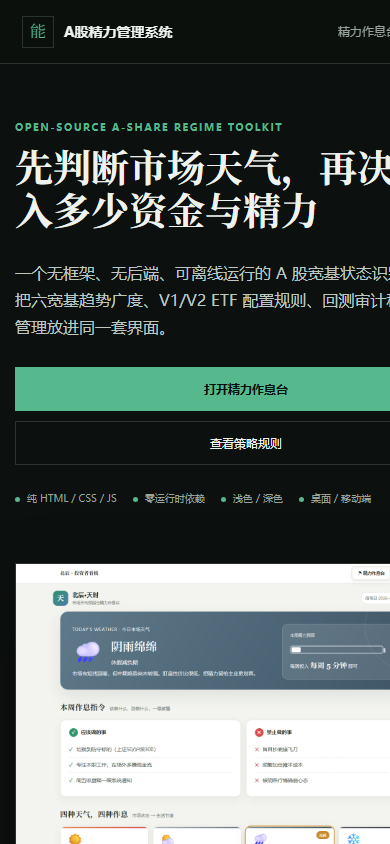
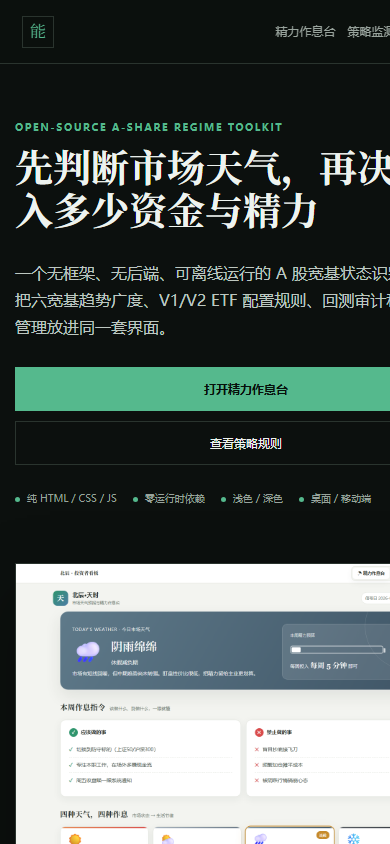
Fix project screenshots and documentation links

Changed region(s): [[0.7077, 0.0308, 1.0, 0.0616], [0.1538, 0.0308, 0.4615, 0.0616]]

diff --git a/index.html b/index.html
@@ -125,7 +125,7 @@
 
         <div class="strategy-version-grid">
           <article class="strategy-version v1"><div class="version-head"><span>V1 基础优化</span><b>简单、稳定、容易人工执行</b></div><p class="version-one-line">像“按天气准备固定衣柜”：不同状态对应预先规定的仓位和标的池。</p><div class="version-points"><p><i>1</i><span><b>状态识别</b>沿用三周期市场广度。</span></p><p><i>2</i><span><b>仓位</b>采用连续函数或20%/35%/50%/65%/80%档位，危机时0%。</span></p><p><i>3</i><span><b>选标</b>震荡固定300+500，防守固定50+300，进攻只在成长池选12周动量Top 2。</span></p><p><i>4</i><span><b>调仓</b>标的变化或仓位偏差达到5%才动。</span></p></div><div class="version-result"><span>它解决什么</span><b>少判断、少折腾，用规则控制总仓位</b></div></article>
-          <article class="strategy-version v2"><div class="version-head"><span>V2 进阶增强</span><b>更自适应、更进攻、更重视趋势质量</b></div><p class="version-one-line">像“全队公开选拔”：不预设价值或成长，谁的趋势最强就让谁上场。</p><div class="version-points"><p><i>1</i><span><b>状态识别</b>沿用相同广度底座，方便和V1公平比较。</span></p><p><i>2</i><span><b>仓位</b>进攻75%—100%、震荡40%—60%、防守与危机0%。</span></p><p><i>3</i><span><b>选标</b>六ETF统一计算快慢复合动量，选Top 2；震荡态先过滤掉未站上MA12者。</span></p><p><i>4</i><span><b>风控</b>Top 3迟滞减少乱换，单标的跌破MA4后该仓位降到原来的60%。</span></p></div><div class="version-result"><span>它解决什么</span><b>减少风格偏见，争取在主升浪集中到真正领涨方向</b></div></article>
+          <article class="strategy-version v2"><div class="version-head"><span>V2 进阶增强</span><b>更自适应、更进攻、更重视趋势质量</b></div><p class="version-one-line">像“全队公开选拔”：不预设价值或成长，谁的趋势最强就让谁上场。</p><div class="version-points"><p><i>1</i><span><b>状态识别</b>沿用相同广度底座，方便和V1公平比较。</span></p><p><i>2</i><span><b>仓位</b>进攻75%—100%、震荡40%—60%、防守与危机0%。</span></p><p><i>3</i><span><b>选标</b>6只ETF统一计算快慢复合动量，选Top 2；震荡态先过滤掉未站上MA12者。</span></p><p><i>4</i><span><b>风控</b>Top 3迟滞减少乱换，单标的跌破MA4后该仓位降到原来的60%。</span></p></div><div class="version-result"><span>它解决什么</span><b>减少风格偏见，争取在主升浪集中到真正领涨方向</b></div></article>
         </div>
 
         <div class="strategy-compare panel"><div class="panel-head"><div><h3>简略版：五个问题看懂V1与V2</h3><small>适合第一次了解策略的人</small></div><span class="badge ok">2分钟</span></div><div class="table-wrap"><table><thead><tr><th>问题</th><th>V1基础优化</th><th>V2进阶增强</th></tr></thead><tbody><tr><td>先判断什么？</td><td>6只宽基的MA4/12/24广度</td><td>相同，市场天气底座不变</td></tr><tr><td>弱市怎么办？</td><td>保留低仓位防守标的；危机才空仓</td><td>防守和危机都0%权益</td></tr><tr><td>从哪里选ETF？</td><td>按状态使用固定池或成长池</td><td>6只ETF统一排名，震荡时加MA12过滤</td></tr><tr><td>怎么决定谁更强？</td><td>主要看近12周涨幅</td><td>4周速度 + 12周主线 + MA12趋势距离</td></tr><tr><td>如何减少错误切换？</td><td>5%仓位缓冲 + 组合-8%回撤熔断</td><td>Top 3迟滞 + 单标的MA4六折平抑</td></tr><tr><td>什么时候执行？</td><td>周五收盘确认，原框架建议下周一执行</td><td>周五14:45预估并在尾盘执行；回测假设同收盘成交</td></tr></tbody></table></div></div>
@@ -166,17 +166,17 @@
         <div class="performance-note"><span>先看懂</span><p>净值曲线回答“1元钱后来变成多少”，最大回撤回答“过程中最难受时亏了多少”。两者要放在一起看，不能只看收益。<button class="inline-link jump-btn" data-jump="strategies">查看V1 / V2逻辑区别 →</button></p></div>
         <div id="perfBenchmarkSummary" class="performance-note"><span>对照结果</span><p>等待用户回测数据。</p></div>
         <div class="perf-kpis"><div><span>累计赚了多少</span><b id="totalReturn">—</b><small>策略期末净值相对起点</small></div><div><span>折算每年收益</span><b id="annualReturn">—</b><small>按实际日期几何年化</small></div><div><span>最深一次回撤</span><b id="maxDrawdown">—</b><small>由用户净值序列重算</small></div><div><span>收益波动大小</span><b id="annualVol">—</b><small>周收益波动 × √52</small></div><div><span>风险收益效率</span><b id="sharpe">—</b><small>无风险利率按0%计算</small></div><div><span>收益回撤效率</span><b id="turnover">—</b><small>卡玛比率：年化收益 / 最大回撤</small></div></div>
-        <article class="panel chart-panel"><div class="panel-head"><div><h3>V2增强策略、V1与市场基准</h3><small>逐周数据直接来自V2增强版CSV</small></div><div class="legend"><span><i class="strategy"></i>V2增强</span><span><i style="background:var(--blue)"></i>V1基础</span><span><i style="background:var(--amber)"></i>六ETF等权</span><span><i class="benchmark"></i>沪深300</span></div></div><canvas id="navChart" height="330"></canvas><div id="navEmpty" class="chart-empty">等待V2回测数据</div></article>
+        <article class="panel chart-panel"><div class="panel-head"><div><h3>V2增强策略、V1与市场基准</h3><small>逐周数据直接来自V2增强版CSV</small></div><div class="legend"><span><i class="strategy"></i>V2增强</span><span><i style="background:var(--blue)"></i>V1基础</span><span><i style="background:var(--amber)"></i>6只ETF等权</span><span><i class="benchmark"></i>沪深300</span></div></div><canvas id="navChart" height="330"></canvas><div id="navEmpty" class="chart-empty">等待V2回测数据</div></article>
         <details class="panel panorama-panel"><summary>查看V2全景走势图（净值 / 仓位 / 市场温度）</summary><a href="./assets/screenshots/v2-enhanced-panorama.png" target="_blank" rel="noopener"><img src="./assets/screenshots/v2-enhanced-panorama.png" alt="V2增强策略全景走势图"></a><p>图源：用户提供V2增强版可视化，区间2023-01至2026-08。点击图片可查看原始分辨率。</p><div class="source-links"><a href="./docs/v2-comprehensive-framework.md" target="_blank">完整框架说明书</a><a href="./docs/v2-enhanced-report.md" target="_blank">进阶归因报告</a><a href="./data/v2-enhanced-weekly-data.csv" download>下载187周CSV</a></div></details>
         <div class="dashboard-grid"><article class="panel chart-panel"><div class="panel-head"><div><h3>历史回撤</h3><small>从阶段高点跌下来的幅度</small></div><span class="risk-label">警戒线 -8%</span></div><canvas id="drawdownChart" height="250"></canvas><div id="ddEmpty" class="chart-empty small">等待历史净值</div></article><article class="panel"><div class="panel-head"><div><h3>市场状态分布</h3><small>用户回测中有多少周处于不同天气</small></div><span class="asof">按评估周</span></div><div id="regimeStats" class="regime-stats"><div class="empty">等待历史回测</div></div></article></div>
         <div class="section-heading"><div><span>V2增强逻辑</span><h2>收益提升来自哪里？</h2></div><p>规则以完整框架说明书为准；绩效数字以CSV逐周净值复算为准。</p></div>
         <div class="analysis-grid v2-logic-grid">
-          <article class="panel analysis-card"><h3>1. 六ETF全域选拔</h3><p>不再预设价值池或成长池，六只核心ETF统一参与排名，使系统能在红利行情与科技行情之间自适应切换。</p></article>
+          <article class="panel analysis-card"><h3>1. 6只ETF全域选拔</h3><p>不再预设价值池或成长池，6只核心ETF统一参与排名，使系统能在红利行情与科技行情之间自适应切换。</p></article>
           <article class="panel analysis-card"><h3>2. 快慢复合动量</h3><p><code>Score = 0.4×Ret4w + 0.6×Ret12w + 0.5×(Price/MA12-1)</code>，兼顾短期敏锐度与中期主线稳定性。</p></article>
           <article class="panel analysis-card"><h3>3. Top 3迟滞与强多头满仓</h3><p>现有持仓仍位列前三时不换仓；综合广度进入多头区后，目标权益按75%—100%映射，降低无效换手并增强主升浪弹性。</p></article>
           <article class="panel analysis-card"><h3>4. 单标的MA4平抑</h3><p>即使市场仍为多头，持仓标的自身跌破4周线时，该标的权重压缩至原目标的60%，其余转为现金。</p></article>
         </div>
-        <article class="panel attribution-panel"><div class="panel-head"><div><h3>CSV复算的分年度表现</h3><small>报告年度表与逐周CSV存在差异，以下以CSV为准</small></div><span class="badge warn">口径纠偏</span></div><div class="table-wrap"><table><thead><tr><th>年度</th><th>V2增强</th><th>V1基础</th><th>六ETF等权</th><th>沪深300</th><th>主要观察</th></tr></thead><tbody><tr><td>2023</td><td class="negative">-3.6%</td><td class="negative">-2.4%</td><td class="negative">-13.0%</td><td class="negative">-13.0%</td><td>空仓机制显著降低弱市损失</td></tr><tr><td>2024</td><td class="positive">+5.0%</td><td class="positive">+7.7%</td><td class="positive">+8.1%</td><td class="positive">+13.4%</td><td>防守有效，但未完全吃满红利行情</td></tr><tr><td>2025</td><td class="positive">+31.6%</td><td class="positive">+17.1%</td><td class="positive">+38.4%</td><td class="positive">+26.6%</td><td>V2显著优于V1，但仍落后等权强牛基准</td></tr><tr><td>2026至8月</td><td class="positive">+10.7%</td><td class="positive">+1.4%</td><td class="positive">+7.4%</td><td class="positive">+0.7%</td><td>V2在分化期取得相对超额</td></tr></tbody></table></div></article>
+        <article class="panel attribution-panel"><div class="panel-head"><div><h3>CSV复算的分年度表现</h3><small>报告年度表与逐周CSV存在差异，以下以CSV为准</small></div><span class="badge warn">口径纠偏</span></div><div class="table-wrap"><table><thead><tr><th>年度</th><th>V2增强</th><th>V1基础</th><th>6只ETF等权</th><th>沪深300</th><th>主要观察</th></tr></thead><tbody><tr><td>2023</td><td class="negative">-3.6%</td><td class="negative">-2.4%</td><td class="negative">-13.0%</td><td class="negative">-13.0%</td><td>空仓机制显著降低弱市损失</td></tr><tr><td>2024</td><td class="positive">+5.0%</td><td class="positive">+7.7%</td><td class="positive">+8.1%</td><td class="positive">+13.4%</td><td>防守有效，但未完全吃满红利行情</td></tr><tr><td>2025</td><td class="positive">+31.6%</td><td class="positive">+17.1%</td><td class="positive">+38.4%</td><td class="positive">+26.6%</td><td>V2显著优于V1，但仍落后等权强牛基准</td></tr><tr><td>2026至8月</td><td class="positive">+10.7%</td><td class="positive">+1.4%</td><td class="positive">+7.4%</td><td class="positive">+0.7%</td><td>V2在分化期取得相对超额</td></tr></tbody></table></div></article>
         <div class="execution-card panel"><div><span>每周执行节奏</span><h3>周五14:45查看预估信号 → 收盘阶段完成调仓</h3></div><p><b>回测假设：</b>使用周五最终收盘信号，并默认按同一收盘价成交；这是理想化口径，可能低估滑点并含同收盘成交偏差。<b>一般使用者：</b>14:45开始核对预估信号；若盘中执行，应在14:56前按券商支持的订单类型完成。2026-07-06起ETF在14:57—15:00进入收盘集合竞价，最后三分钟仅接受限价申报且不可撤单；也可在15:00确认信号后，尝试15:05—15:30盘后固定价格交易，但成交取决于对手盘。</p><span class="src">交易规则来源：<a href="https://www.sse.com.cn/aboutus/mediacenter/hotandd/c/c_20260424_10816474.shtml" target="_blank" rel="noopener">上海证券交易所，2026-04-24</a></span></div>
       </section>
 

diff --git a/project.css b/project.css
@@ -1,1 +1,1 @@
-:root{--bg:#0c100e;--surface:#141a17;--surface2:#1a211d;--line:#2a342e;--text:#eef3ef;--muted:#98a39c;--green:#55b98d;--red:#ef716c;--amber:#e0aa58;--blue:#78a9cf;--max:1180px}*{box-sizing:border-box}html{scroll-behavior:smooth}body{margin:0;background:var(--bg);color:var(--text);font-family:Inter,"PingFang SC","Microsoft YaHei",Arial,sans-serif;line-height:1.7;letter-spacing:0}.site-header{height:64px;position:sticky;top:0;z-index:10;background:rgba(12,16,14,.94);backdrop-filter:blur(14px);border-bottom:1px solid var(--line);display:flex;align-items:center;justify-content:space-between;padding:0 max(22px,calc((100vw - var(--max))/2))}.brand{display:flex;align-items:center;gap:10px;color:var(--text);text-decoration:none}.brand span{width:32px;height:32px;display:grid;place-items:center;border:1px solid var(--line);color:var(--green);font-family:Georgia,serif}.brand b{font-size:14px}.site-header nav{display:flex;gap:22px}.site-header nav a{color:var(--muted);font-size:12px;text-decoration:none}.site-header nav a:hover{color:var(--text)}main{overflow:hidden}.hero,.content-section,.risk{max-width:var(--max);margin:0 auto;padding:90px 22px}.hero{display:grid;grid-template-columns:.9fr 1.1fr;gap:56px;align-items:center;min-height:calc(100vh - 64px)}.eyebrow{color:var(--green);font-size:10px;font-weight:800;letter-spacing:.16em;margin:0 0 12px}.hero h1{font:700 clamp(38px,5vw,68px)/1.12 "Songti SC",Georgia,serif;margin:0;max-width:720px}.lead{font-size:16px;color:#bdc7c0;max-width:640px;margin:26px 0}.actions{display:flex;gap:10px}.actions a{padding:11px 16px;border:1px solid var(--line);color:var(--text);text-decoration:none;font-size:12px}.actions a.primary{background:var(--green);color:#07110c;border-color:var(--green);font-weight:700}.facts{display:flex;gap:16px;flex-wrap:wrap;margin-top:25px;color:var(--muted);font-size:10px}.facts span:before{content:"";display:inline-block;width:5px;height:5px;border-radius:50%;background:var(--green);margin-right:7px}.hero-shot,.showcase figure,.performance{margin:0;border:1px solid var(--line);background:var(--surface);box-shadow:0 28px 70px rgba(0,0,0,.32)}figure img{width:100%;height:auto;display:block}figcaption{padding:12px 15px;color:var(--muted);font-size:10px}.band{padding:72px max(22px,calc((100vw - var(--max))/2));border-top:1px solid var(--line);border-bottom:1px solid var(--line);background:var(--surface)}h2{font:700 clamp(27px,3.4vw,43px)/1.25 "Songti SC",Georgia,serif;margin:0 0 20px;max-width:800px}.problem{display:grid;grid-template-columns:.85fr 1.15fr;gap:60px}.problem-grid{display:grid;grid-template-columns:repeat(3,1fr);gap:1px;background:var(--line)}.problem-grid article{background:var(--surface2);padding:24px}.problem-grid b{color:var(--text);font-size:14px}.problem-grid p,.split>div>p,.metrics>div>p,.data-section>div>p{color:var(--muted);font-size:12px;margin:9px 0 0}.content-section{padding-top:76px;padding-bottom:76px}.section-heading{margin-bottom:28px}.showcase{display:grid;grid-template-columns:1fr 1fr;gap:18px}.showcase figcaption{display:flex;justify-content:space-between;gap:15px}.showcase figcaption b{color:var(--text)}.model{background:#101714}.flow{list-style:none;margin:30px 0 0;padding:0;display:grid;grid-template-columns:repeat(5,1fr);gap:1px;background:var(--line)}.flow li{padding:22px;background:var(--surface)}.flow span{color:var(--green);font:700 20px Georgia,serif}.flow b{display:block;margin:14px 0 7px;font-size:13px}.flow p{color:var(--muted);font-size:10px;line-height:1.65;margin:0}.split{display:grid;grid-template-columns:.8fr 1.2fr;gap:48px;align-items:center}table{width:100%;border-collapse:collapse;margin-top:25px;font-size:11px}th,td{text-align:left;border-bottom:1px solid var(--line);padding:11px 8px}th{color:var(--muted);font-weight:500}.metrics{display:grid;grid-template-columns:.8fr 1.2fr;gap:55px}.metric-grid{display:grid;grid-template-columns:repeat(3,1fr);gap:1px;background:var(--line)}.metric-grid article{background:var(--surface2);padding:22px}.metric-grid span{display:block;color:var(--muted);font-size:10px}.metric-grid b{display:block;font:700 25px Georgia,serif;margin-top:8px;color:var(--red)}.metric-grid article:nth-child(3) b{color:var(--green)}.data-section{display:grid;grid-template-columns:1fr 1fr;gap:50px;align-items:center}.data-section code{color:var(--blue)}pre{margin:0;padding:24px;border:1px solid var(--line);background:#090d0b;overflow:auto;color:#c9d4cd;font-size:11px;line-height:1.8}.risk{padding-top:72px;padding-bottom:72px}.risk>div{display:grid;grid-template-columns:repeat(4,1fr);gap:1px;background:var(--line)}.risk>div p{background:var(--surface);margin:0;padding:22px;color:var(--muted);font-size:11px}footer{max-width:var(--max);margin:0 auto;padding:28px 22px 45px;border-top:1px solid var(--line);display:flex;justify-content:space-between;color:var(--muted);font-size:10px}@media(max-width:900px){.hero,.problem,.split,.metrics,.data-section{grid-template-columns:1fr}.hero{padding-top:55px;min-height:auto}.problem-grid,.flow{grid-template-columns:1fr 1fr}.risk>div{grid-template-columns:1fr 1fr}.showcase{grid-template-columns:1fr}}@media(max-width:560px){.site-header nav a:last-child{display:none}.site-header nav{gap:12px}.hero h1{font-size:38px}.hero,.content-section,.risk{padding-left:15px;padding-right:15px}.band{padding-left:15px;padding-right:15px}.problem-grid,.flow,.metric-grid,.risk>div{grid-template-columns:1fr}.actions{flex-direction:column}.actions a{text-align:center}.showcase figcaption{display:block}.showcase figcaption span{display:block;margin-top:4px}footer{display:block}footer span{display:block;margin-top:5px}}
+:root{--bg:#0c100e;--surface:#141a17;--surface2:#1a211d;--line:#2a342e;--text:#eef3ef;--muted:#98a39c;--green:#55b98d;--red:#ef716c;--amber:#e0aa58;--blue:#78a9cf;--max:1180px}*{box-sizing:border-box}html{scroll-behavior:smooth}body{margin:0;background:var(--bg);color:var(--text);font-family:Inter,"PingFang SC","Microsoft YaHei",Arial,sans-serif;line-height:1.7;letter-spacing:0}.site-header{height:64px;position:sticky;top:0;z-index:10;background:rgba(12,16,14,.94);backdrop-filter:blur(14px);border-bottom:1px solid var(--line);display:flex;align-items:center;justify-content:space-between;padding:0 max(22px,calc((100vw - var(--max))/2))}.brand{display:flex;align-items:center;gap:10px;color:var(--text);text-decoration:none}.brand span{width:32px;height:32px;display:grid;place-items:center;border:1px solid var(--line);color:var(--green);font-family:Georgia,serif}.brand b{font-size:14px}.site-header nav{display:flex;gap:22px}.site-header nav a{color:var(--muted);font-size:12px;text-decoration:none}.site-header nav a:hover{color:var(--text)}main{overflow:hidden}.hero,.content-section,.risk{max-width:var(--max);margin:0 auto;padding:90px 22px}.hero{display:grid;grid-template-columns:.9fr 1.1fr;gap:56px;align-items:center;min-height:calc(100vh - 64px)}.eyebrow{color:var(--green);font-size:10px;font-weight:800;letter-spacing:.16em;margin:0 0 12px}.hero h1{font:700 clamp(38px,5vw,68px)/1.12 "Songti SC",Georgia,serif;margin:0;max-width:720px}.lead{font-size:16px;color:#bdc7c0;max-width:640px;margin:26px 0}.actions{display:flex;gap:10px}.actions a{padding:11px 16px;border:1px solid var(--line);color:var(--text);text-decoration:none;font-size:12px}.actions a.primary{background:var(--green);color:#07110c;border-color:var(--green);font-weight:700}.facts{display:flex;gap:16px;flex-wrap:wrap;margin-top:25px;color:var(--muted);font-size:10px}.facts span:before{content:"";display:inline-block;width:5px;height:5px;border-radius:50%;background:var(--green);margin-right:7px}.hero-shot,.showcase figure,.performance{margin:0;border:1px solid var(--line);background:var(--surface);box-shadow:0 28px 70px rgba(0,0,0,.32)}figure img{width:100%;height:auto;display:block}figcaption{padding:12px 15px;color:var(--muted);font-size:10px}.band{padding:72px max(22px,calc((100vw - var(--max))/2));border-top:1px solid var(--line);border-bottom:1px solid var(--line);background:var(--surface)}h2{font:700 clamp(27px,3.4vw,43px)/1.25 "Songti SC",Georgia,serif;margin:0 0 20px;max-width:800px}.problem{display:grid;grid-template-columns:.85fr 1.15fr;gap:60px}.problem-grid{display:grid;grid-template-columns:repeat(3,1fr);gap:1px;background:var(--line)}.problem-grid article{background:var(--surface2);padding:24px}.problem-grid b{color:var(--text);font-size:14px}.problem-grid p,.split>div>p,.metrics>div>p,.data-section>div>p{color:var(--muted);font-size:12px;margin:9px 0 0}.content-section{padding-top:76px;padding-bottom:76px}.section-heading{margin-bottom:28px}.showcase{display:grid;grid-template-columns:1fr 1fr;gap:18px}.showcase figcaption{display:flex;justify-content:space-between;gap:15px}.showcase figcaption b{color:var(--text)}.model{background:#101714}.flow{list-style:none;margin:30px 0 0;padding:0;display:grid;grid-template-columns:repeat(5,1fr);gap:1px;background:var(--line)}.flow li{padding:22px;background:var(--surface)}.flow span{color:var(--green);font:700 20px Georgia,serif}.flow b{display:block;margin:14px 0 7px;font-size:13px}.flow p{color:var(--muted);font-size:10px;line-height:1.65;margin:0}.split{display:grid;grid-template-columns:.8fr 1.2fr;gap:48px;align-items:center}table{width:100%;border-collapse:collapse;margin-top:25px;font-size:11px}th,td{text-align:left;border-bottom:1px solid var(--line);padding:11px 8px}th{color:var(--muted);font-weight:500}.metrics{display:grid;grid-template-columns:.8fr 1.2fr;gap:55px}.metric-grid{display:grid;grid-template-columns:repeat(3,1fr);gap:1px;background:var(--line)}.metric-grid article{background:var(--surface2);padding:22px}.metric-grid span{display:block;color:var(--muted);font-size:10px}.metric-grid b{display:block;font:700 25px Georgia,serif;margin-top:8px;color:var(--red)}.metric-grid article:nth-child(3) b{color:var(--green)}.data-section{display:grid;grid-template-columns:1fr 1fr;gap:50px;align-items:center}.data-section code{color:var(--blue)}pre{margin:0;padding:24px;border:1px solid var(--line);background:#090d0b;overflow:auto;color:#c9d4cd;font-size:11px;line-height:1.8}.risk{padding-top:72px;padding-bottom:72px}.risk>div{display:grid;grid-template-columns:repeat(4,1fr);gap:1px;background:var(--line)}.risk>div p{background:var(--surface);margin:0;padding:22px;color:var(--muted);font-size:11px}footer{max-width:var(--max);margin:0 auto;padding:28px 22px 45px;border-top:1px solid var(--line);display:flex;justify-content:space-between;color:var(--muted);font-size:10px}@media(max-width:900px){.hero,.problem,.split,.metrics,.data-section{grid-template-columns:1fr}.hero{padding-top:55px;min-height:auto}.problem-grid,.flow{grid-template-columns:1fr 1fr}.risk>div{grid-template-columns:1fr 1fr}.showcase{grid-template-columns:1fr}}@media(max-width:560px){.site-header .brand b{display:none}.site-header nav{gap:12px}.hero h1{font-size:38px}.hero,.content-section,.risk{padding-left:15px;padding-right:15px}.band{padding-left:15px;padding-right:15px}.problem-grid,.flow,.metric-grid,.risk>div{grid-template-columns:1fr}.actions{flex-direction:column}.actions a{text-align:center}.showcase figcaption{display:block}.showcase figcaption span{display:block;margin-top:4px}footer{display:block}footer span{display:block;margin-top:5px}}

diff --git a/readme.html b/readme.html
@@ -1,0 +1,69 @@
+<!doctype html>
+<html lang="zh-CN" data-theme="dark">
+<head>
+  <meta charset="utf-8">
+  <meta name="viewport" content="width=device-width, initial-scale=1">
+  <meta name="color-scheme" content="dark light">
+  <meta name="description" content="A股精力管理系统项目说明与快速开始。">
+  <title>README｜A股精力管理系统</title>
+  <link rel="stylesheet" href="./project.css">
+  <style>
+    .readme{max-width:880px;margin:0 auto;padding:72px 22px 96px}.readme h1{font:700 46px/1.2 "Songti SC",Georgia,serif;margin:0 0 18px}.readme h2{font-size:25px;margin:48px 0 14px}.readme h3{font-size:16px;margin:28px 0 10px}.readme p,.readme li{color:#bdc7c0;font-size:14px}.readme li{margin:8px 0}.readme a{color:var(--blue)}.readme img{width:100%;height:auto;border:1px solid var(--line);margin:22px 0}.readme pre{margin:14px 0}.readme code{color:#c9d4cd}.readme .lead{font-size:17px}.readme .notice{border-left:3px solid var(--amber);background:var(--surface);padding:16px 18px;margin:24px 0}.readme .notice p{margin:0}.readme .file-tree{white-space:pre;overflow:auto}.readme-nav{display:flex;gap:12px;margin-top:28px}.readme-nav a{border:1px solid var(--line);padding:9px 13px;text-decoration:none;font-size:12px;color:var(--text)}@media(max-width:560px){.readme{padding:48px 15px 72px}.readme h1{font-size:36px}.readme h2{font-size:22px}}
+  </style>
+</head>
+<body>
+  <header class="site-header">
+    <a class="brand" href="./project.html"><span>能</span><b>A股精力管理系统</b></a>
+    <nav aria-label="项目导航"><a href="./project.html">项目详情</a><a href="./tianshi.html">精力作息台</a><a href="./index.html">策略监测台</a></nav>
+  </header>
+  <main class="readme">
+    <p class="eyebrow">PROJECT README</p>
+    <h1>A股精力管理系统</h1>
+    <p class="lead">用6只核心宽基的趋势广度判断市场天气，把仓位纪律与盯盘精力放进同一套规则里。</p>
+    <div class="readme-nav"><a href="./tianshi.html">打开精力作息台</a><a href="./index.html?view=strategies">查看策略规则</a></div>
+    <img src="./assets/screenshots/energy-console.png" alt="A股精力管理系统精力作息台">
+
+    <h2>这是什么</h2>
+    <p>这是一个纯 HTML、CSS 和 JavaScript 的 A 股市场状态研究原型，下载后可以直接打开，不依赖框架、后端或数据库。</p>
+    <ul><li><code>tianshi.html</code>：面向普通投资者的精力作息台。</li><li><code>index.html</code>：面向进阶使用者的策略监测台。</li><li><code>project.html</code>：适合项目展示和 GitHub Pages 的图文详情页。</li></ul>
+
+    <h2>核心模型</h2>
+    <p>系统观察上证50、沪深300、中证500、中证1000、创业板指和科创50：</p>
+    <ol><li>判断周收盘是否站上 MA4、MA12、MA24。</li><li>计算短、中、长期市场广度。</li><li>使用 <code>综合广度 = 35% × B4 + 45% × B12 + 20% × B24</code>。</li><li>把市场分为多头、震荡、防守、危机。</li><li>V2 再按状态决定总仓位，并使用复合动量、Top 3 迟滞和 MA4 六折平抑。</li></ol>
+
+    <h2>快速开始</h2>
+    <h3>直接打开</h3><p>下载仓库后打开 <code>tianshi.html</code>。浏览器会读取已烘焙的周线和样例回测。</p>
+    <h3>本地服务</h3><pre><code>python -m http.server 8000
+# 访问 http://localhost:8000/project.html</code></pre>
+    <h3>更新市场数据</h3><pre><code>cp config/data-source.example.json config/data-source.json
+node scripts/update-data.mjs
+node scripts/validate.mjs</code></pre>
+
+    <h2>样例回测</h2>
+    <p>仓库包含 2023-01-02 至 2026-08-24 的 187 周 V2 样例 CSV。页面按净值序列复算：累计收益 +47.4%、几何年化 +11.2%、最大回撤 -10.8%、年化波动 16.6%、夏普 0.74、卡玛 1.04。</p>
+    <div class="notice"><p>这些数字不是实盘业绩。回测采用最终周收盘信号并假设同收盘价成交，可能低估滑点并含同收盘成交偏差。</p></div>
+
+    <h2>目录</h2>
+    <pre class="file-tree"><code>project.html              图文项目详情
+tianshi.html              精力作息入口
+index.html                策略监测台
+app.js / styles.css       策略台逻辑与样式
+data/                     浏览器数据与样例回测
+config/                   数据源配置模板
+scripts/                  更新与校验脚本
+docs/                     模型、数据、架构与风险文档
+assets/screenshots/       页面截图</code></pre>
+
+    <h2>验证</h2><pre><code>node --check app.js
+node --check scripts/update-data.mjs
+node --check scripts/validate.mjs
+node scripts/validate.mjs</code></pre>
+
+    <h2>数据与合规边界</h2>
+    <ul><li>默认腾讯行情适配器属于非官方公开接口，没有稳定性或长期可用性保证。</li><li>仓库不包含账户、密钥、交易接口或自动下单能力。</li><li>行情、策略信号和样例回测仅供研究与产品原型验证，不构成投资建议。</li><li>任何策略都可能失效，过往表现不预示未来收益。</li></ul>
+
+    <h2>License</h2><p>代码以 MIT License 发布。第三方行情数据及接口的使用受原提供方条款约束。</p>
+  </main>
+  <footer><span>A股精力管理系统</span><span>Research prototype · Not investment advice</span></footer>
+</body>
+</html>

diff --git a/project.html b/project.html
@@ -14,7 +14,7 @@
     <nav aria-label="项目导航">
       <a href="./tianshi.html">精力作息台</a>
       <a href="./index.html">策略监测台</a>
-      <a href="./README.md">README</a>
+      <a href="./readme.html">README</a>
     </nav>
   </header>
 
@@ -65,8 +65,8 @@
       <div>
         <p class="eyebrow">V1 VS V2</p>
         <h2>共同底座，不同的风险表达</h2>
-        <p>V1 更简单，按状态使用固定标的池或成长池；V2 让六只 ETF 全域排名，弱势和危机均保持 0% 权益，并增加迟滞与单标的趋势平抑。</p>
-        <table><thead><tr><th>机制</th><th>V1</th><th>V2</th></tr></thead><tbody><tr><td>选标范围</td><td>状态对应预设池</td><td>六ETF统一排名</td></tr><tr><td>弱势仓位</td><td>保留低仓位</td><td>0%权益</td></tr><tr><td>换仓过滤</td><td>5%仓位缓冲</td><td>Top 3迟滞</td></tr><tr><td>单标的风控</td><td>组合熔断为主</td><td>跌破MA4权重×60%</td></tr></tbody></table>
+        <p>V1 更简单，按状态使用固定标的池或成长池；V2 让6只ETF全域排名，弱势和危机均保持 0% 权益，并增加迟滞与单标的趋势平抑。</p>
+        <table><thead><tr><th>机制</th><th>V1</th><th>V2</th></tr></thead><tbody><tr><td>选标范围</td><td>状态对应预设池</td><td>6只ETF统一排名</td></tr><tr><td>弱势仓位</td><td>保留低仓位</td><td>0%权益</td></tr><tr><td>换仓过滤</td><td>5%仓位缓冲</td><td>Top 3迟滞</td></tr><tr><td>单标的风控</td><td>组合熔断为主</td><td>跌破MA4权重×60%</td></tr></tbody></table>
       </div>
       <figure class="performance"><img src="./assets/screenshots/performance.png" alt="V2策略表现与回撤界面"><figcaption>页面绩效按用户提供的 187 周 CSV 净值序列复算，不宣称为实盘业绩</figcaption></figure>
     </section>

diff --git a/README.md b/README.md
@@ -1,6 +1,6 @@
 # A股精力管理系统
 
-用六只核心宽基的趋势广度判断市场天气，把仓位纪律与盯盘精力放进同一套规则里。
+用6只核心宽基的趋势广度判断市场天气，把仓位纪律与盯盘精力放进同一套规则里。
 
 ![精力作息台](./assets/screenshots/energy-console.png)
 
@@ -9,7 +9,7 @@
 这是一个纯 HTML / CSS / JavaScript 的 A 股市场状态研究原型，提供两个入口：
 
 - `tianshi.html`：面向普通投资者的精力作息台，把市场状态翻译为时间预算、行动与禁止事项。
-- `index.html`：面向进阶使用者的策略监测台，展示六宽基广度、V1/V2 规则、ETF 配置、样例回测和数据审计。
+- `index.html`：面向进阶使用者的策略监测台，展示6只ETF对应宽基的广度、V1/V2 规则、ETF 配置、样例回测和数据审计。
 - `project.html`：适合项目展示和 GitHub Pages 的图文详情页。
 
 项目不依赖框架或后端，下载后可直接打开；维护数据需要 Node.js 20+，不需要安装第三方包。
@@ -71,6 +71,7 @@ node scripts/validate.mjs
 ```text
 .
 ├── project.html              # 图文项目详情
+├── readme.html               # 浏览器可读的README页面
 ├── tianshi.html              # 精力作息入口
 ├── index.html                # 策略监测台
 ├── app.js / styles.css       # 策略台逻辑与样式
